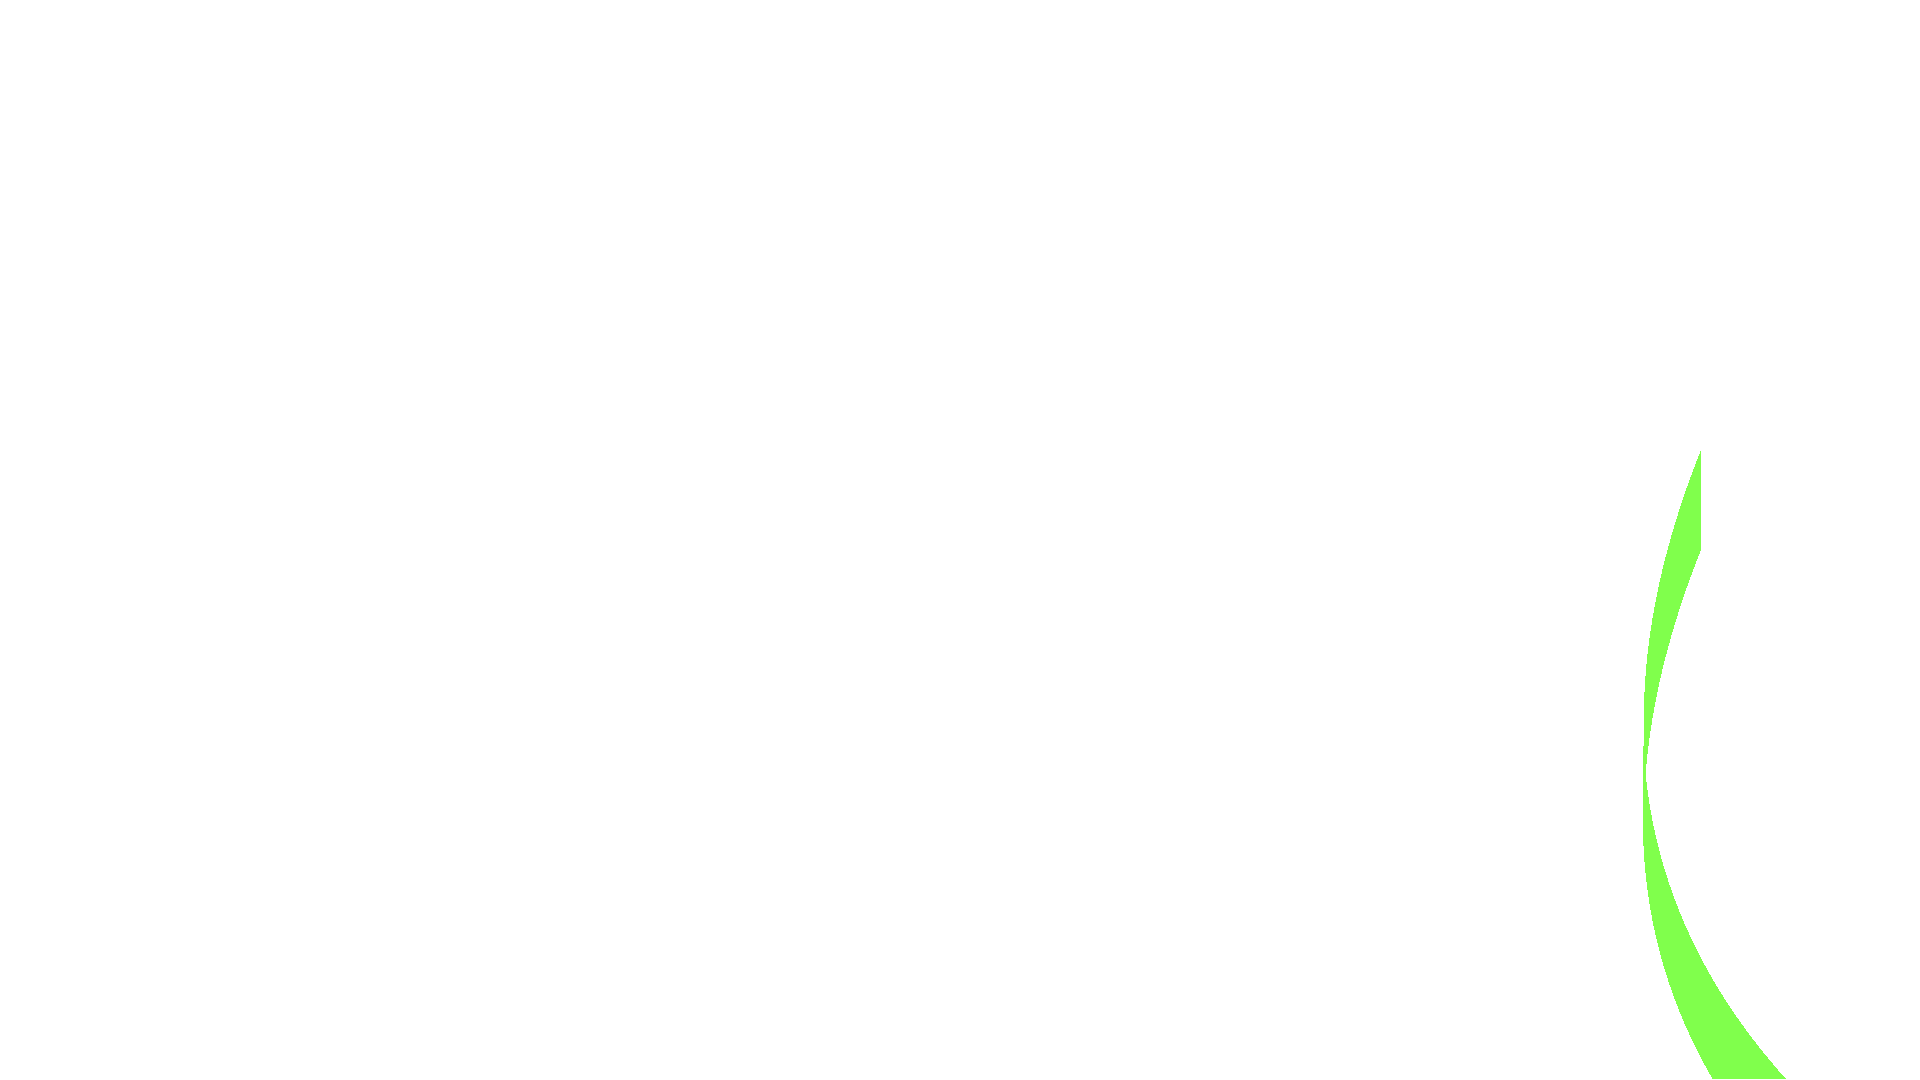
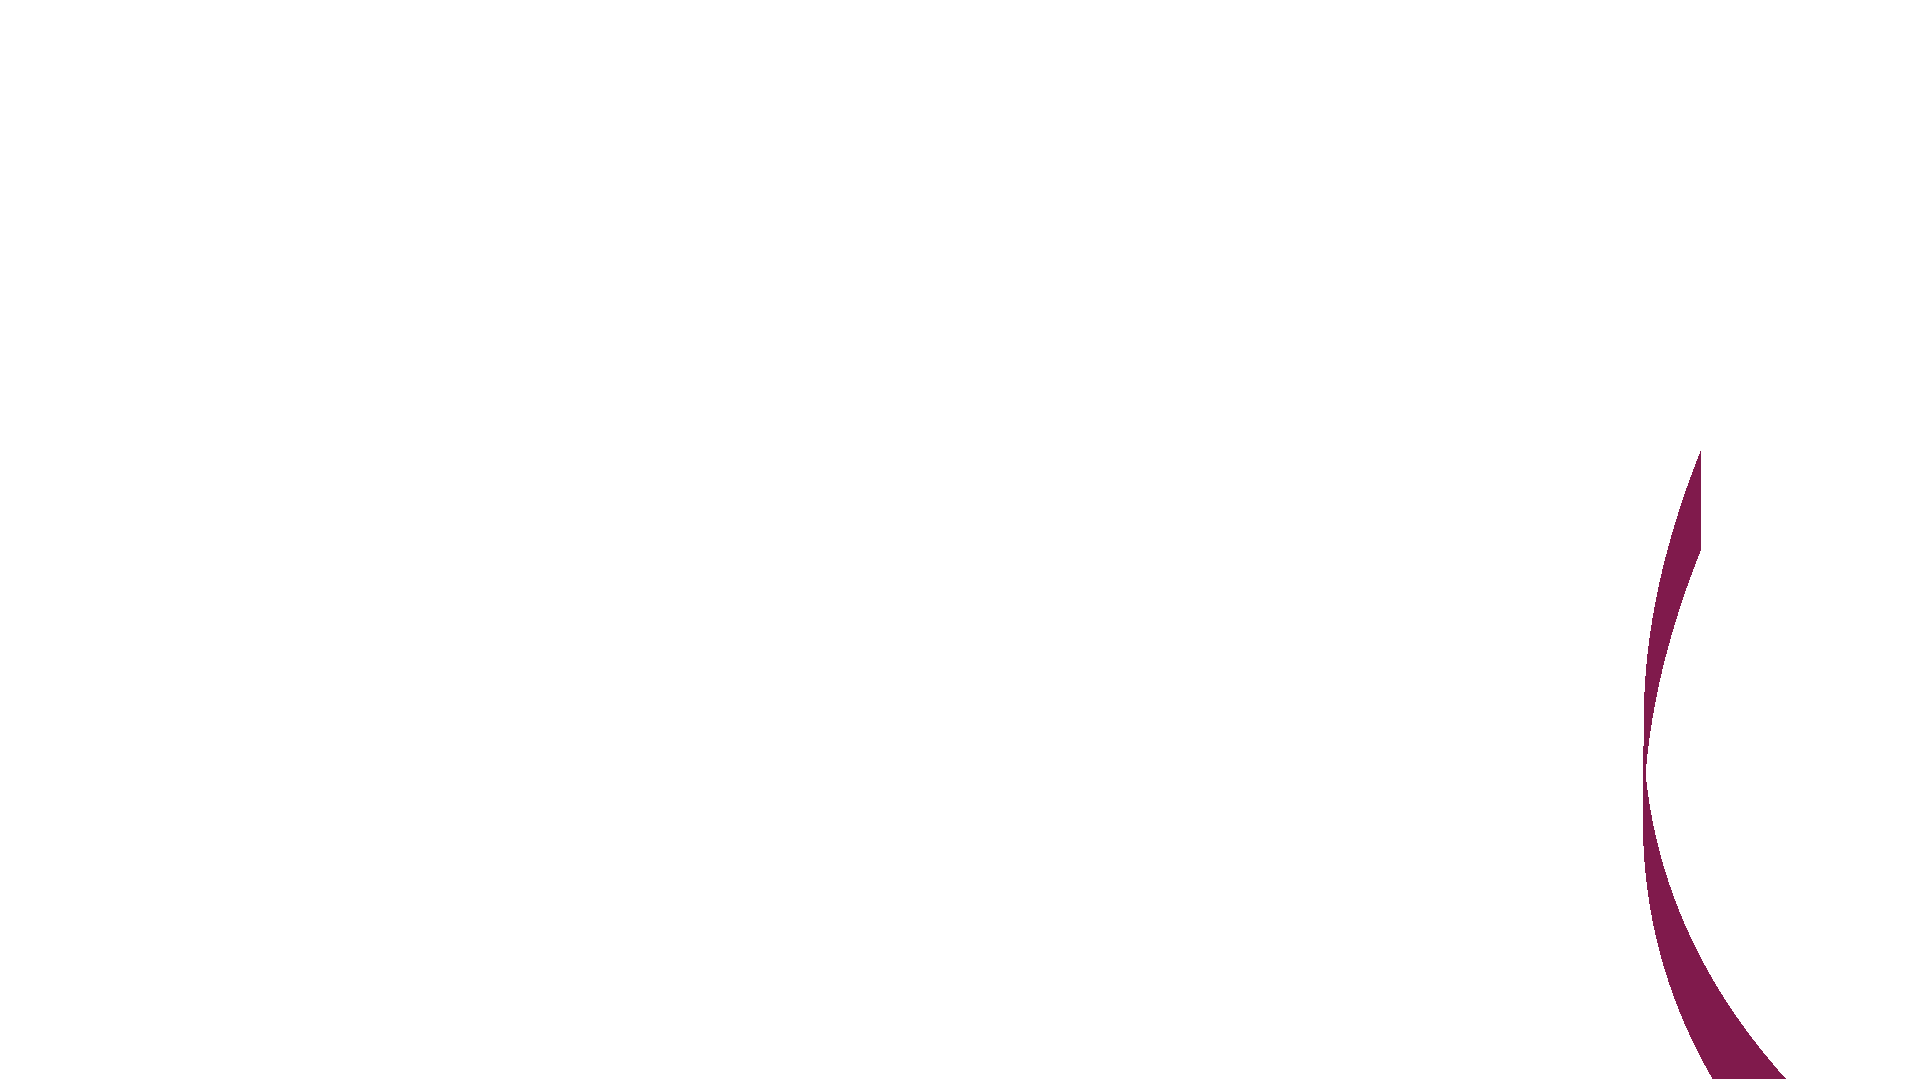
fix constraining bug. rename file

Changed region(s): [[0.8438, 0.7333, 0.9375, 1.0], [0.8438, 0.4278, 0.9062, 0.6722]]

diff --git a/tests/stroke_constraining_test.h b/tests/stroke_constraining_test.h
@@ -10,7 +10,7 @@
 #include "rasterization/drawer.h"
 
 inline void visualize_stroke_constraining(const stroke& stroke_to_show_constraining, size_t image_w, size_t image_h, const std::string& example_name) {
-	colored_stroke colored_stroke { stroke_to_show_constraining, rgb_color{ 0.5, 1., 0.3 } };
+	colored_stroke colored_stroke { stroke_to_show_constraining, rgb_color{ 0.5, 0.1, 0.3 } };
 	auto stroke_to_change = colored_stroke;
 
 	// TODO: have grey bg
@@ -34,6 +34,8 @@ inline void visualize_stroke_constraining(const stroke& stroke_to_show_constrain
 	std::cout << "Created directory" << std::endl;
 	save_image(before, (this_dir / "before.png").string());
 	save_image(after, (this_dir / "after.png").string());
+
+	std::cout << "Saved images" << std::endl;
 }
 
 inline void launch_stroke_constraining_visualizing_test() {
@@ -43,4 +45,6 @@ inline void launch_stroke_constraining_visualizing_test() {
 			                              { 1700, 500 },
 			                              100
 		}, 1920, 1080, "SimplestExample");
+
+	std::cout << "Gone out of the scope" << std::endl;
 }

diff --git a/data_representation/range_rectangle.h b/data_representation/range_rectangle.h
@@ -18,7 +18,7 @@ struct RangeRectangle {
 
 	void constrain_point(point& point) const {
 		point.x = std::clamp(point.x, double(min_x), double(max_x));
-		point.y = std::clamp(point.x, double(min_x), double(max_x));
+		point.y = std::clamp(point.y, double(min_y), double(max_y));
 	}
 
 	[[nodiscard]] point get_center () const {

diff --git a/main.cpp b/main.cpp
@@ -7,7 +7,7 @@
 #include <tests/draw_test.h>
 #include <tests/stroke_color_optimization_test.h>
 #include <tests/error_computing_tests/image_mse_test.h>
-#include <tests/stroke_constrainiing_test.h>
+#include <tests/stroke_constraining_test.h>
 #include "tests/opencv_test.h"
 
 int main ()
